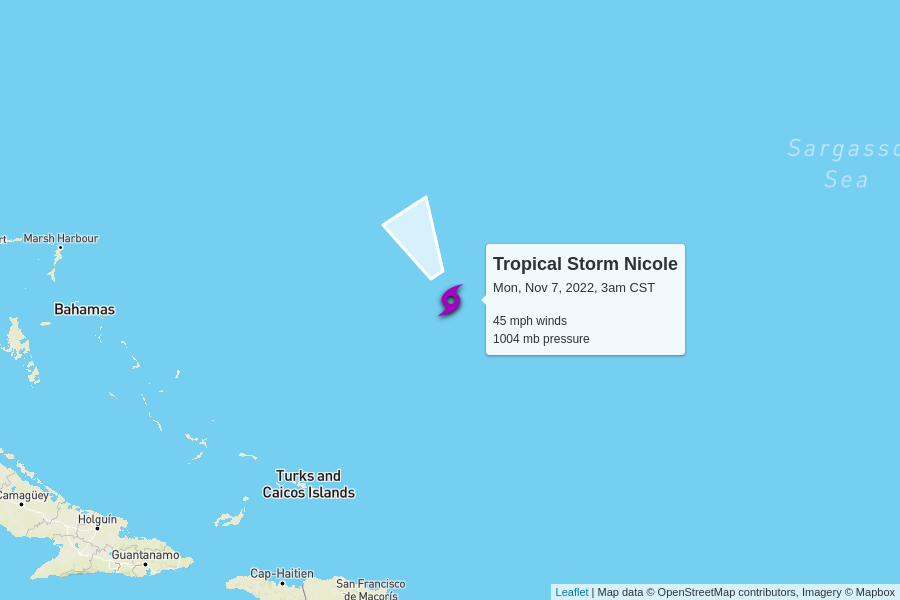
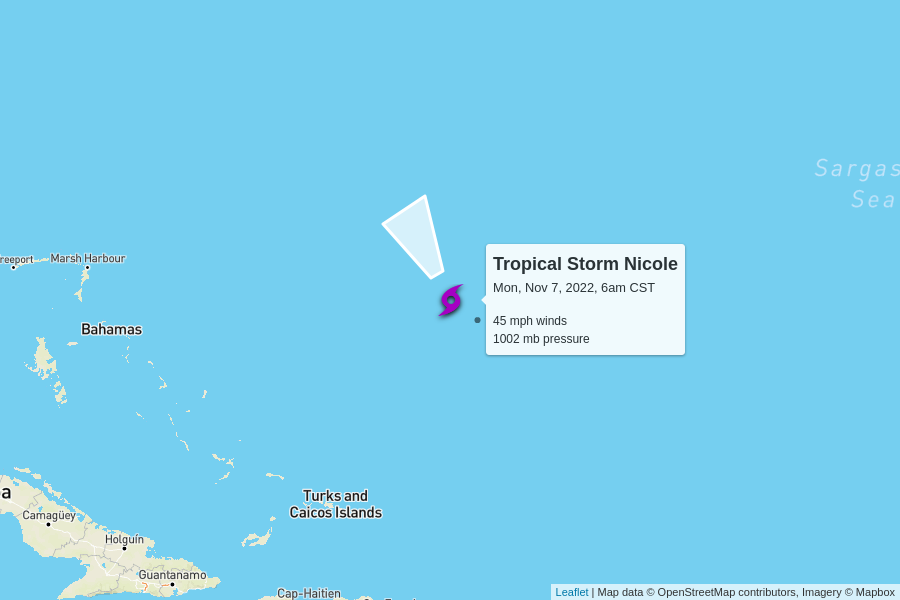
automatic update

diff --git a/docs/index.html b/docs/index.html
@@ -100,7 +100,7 @@
         <td colspan="6" class="storm category-0" >
           <h2>
             Tropical Storm Nicole
-            <p class="updated">last updated <span data-time>2022-11-07T09:00:00.000Z</span></p>
+            <p class="updated">last updated <span data-time>2022-11-07T12:00:00.000Z</span></p>
           </h2>
         </td>
       </tr>
@@ -116,7 +116,7 @@
       <tr>
         <td class="spacer"></td>
         <td>45 mph</td>
-        <td>1004 mb</td>
+        <td>1002 mb</td>
         <td>
           14 mph to the north-northwest
           <br/>
